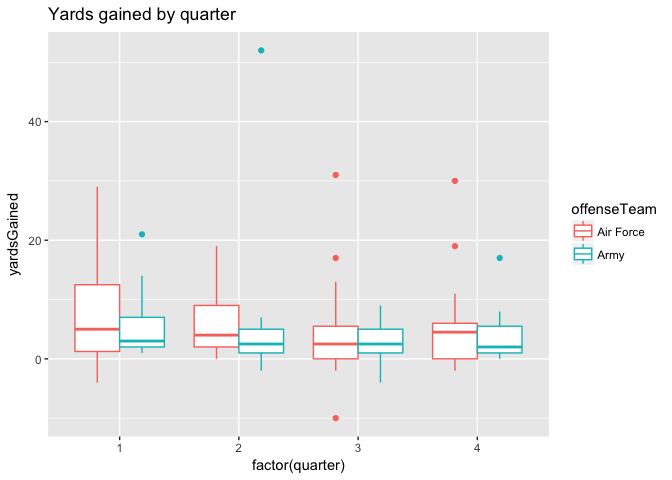
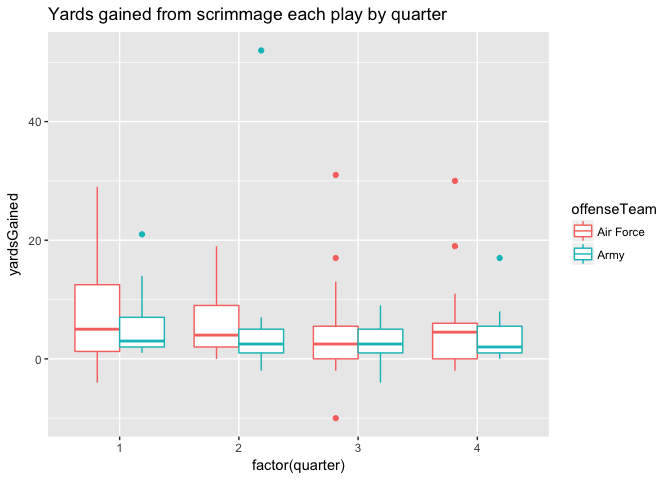
changes

Changed region(s): [[0.2188, 0.0, 0.6562, 0.0625]]

diff --git a/README.md b/README.md
@@ -1,6 +1,9 @@
 
-Army vs. Air Force 2018 - Can we predict the number of yards Army gained each play on offense?
-==============================================================================================
+Army 17, Air Force 14
+=====================
+
+Can we predict the number of yards Army gained each play on offense?
+====================================================================
 
 This code performs analysis of play-by-play data from the Army - Air Force 2018 football game. Intended to demonstrate regression models in introductory statistics courses.
 
@@ -47,7 +50,7 @@ Data Analysis
 #Yards by quarter
 plays_RushAndPass %>% 
   ggplot(aes(x = factor(quarter), y = yardsGained, color = offenseTeam)) +
-  geom_boxplot() + ggtitle("Yards gained by quarter")
+  geom_boxplot() + ggtitle("Yards gained from scrimmage each play by quarter")
 ```
 
 ![](README_files/figure-markdown_github-ascii_identifiers/unnamed-chunk-3-1.png)
@@ -55,7 +58,7 @@ plays_RushAndPass %>%
 ``` r
 #Yards by down
 plays_RushAndPass %>% ggplot(aes(x = factor(down), y = yardsGained, color = offenseTeam)) +
-  geom_boxplot() + ggtitle("Yards gained by down")
+  geom_boxplot() + ggtitle("Yards gained from scrimmage each play by down")
 ```
 
 ![](README_files/figure-markdown_github-ascii_identifiers/unnamed-chunk-3-2.png)
